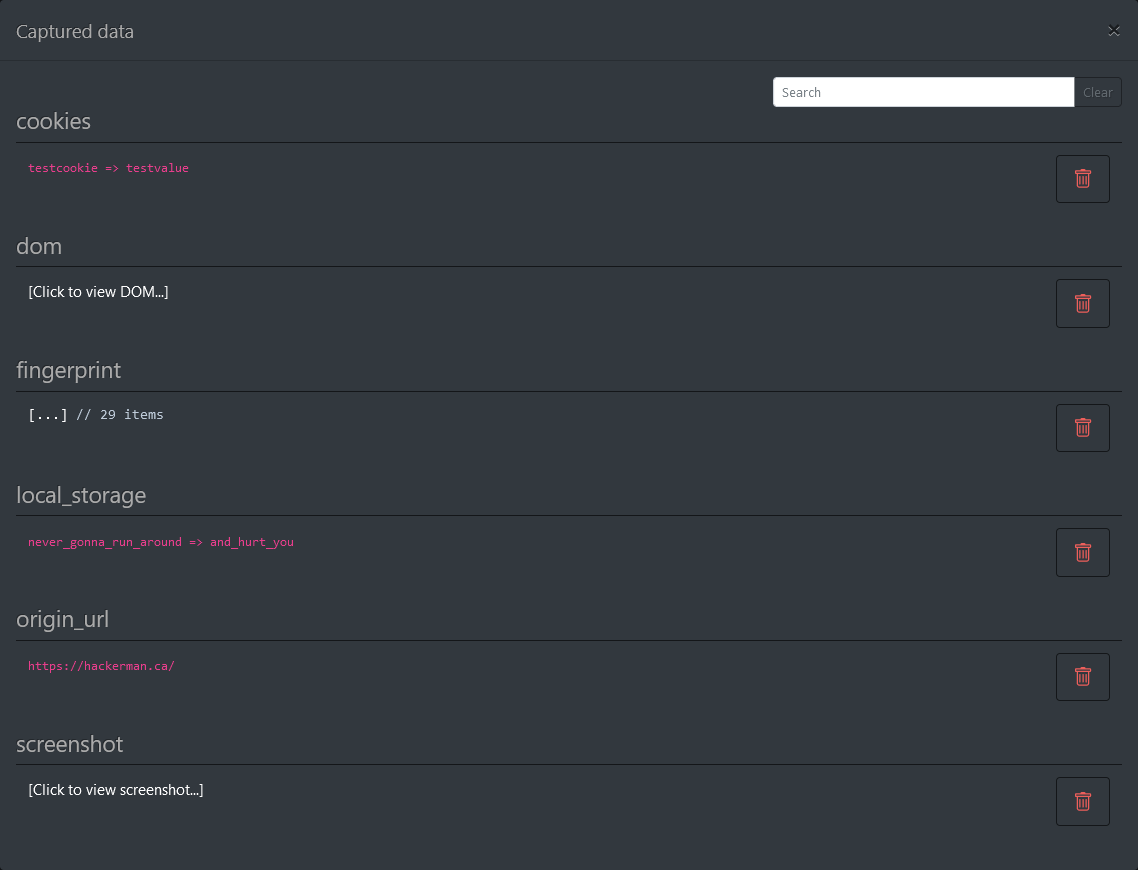
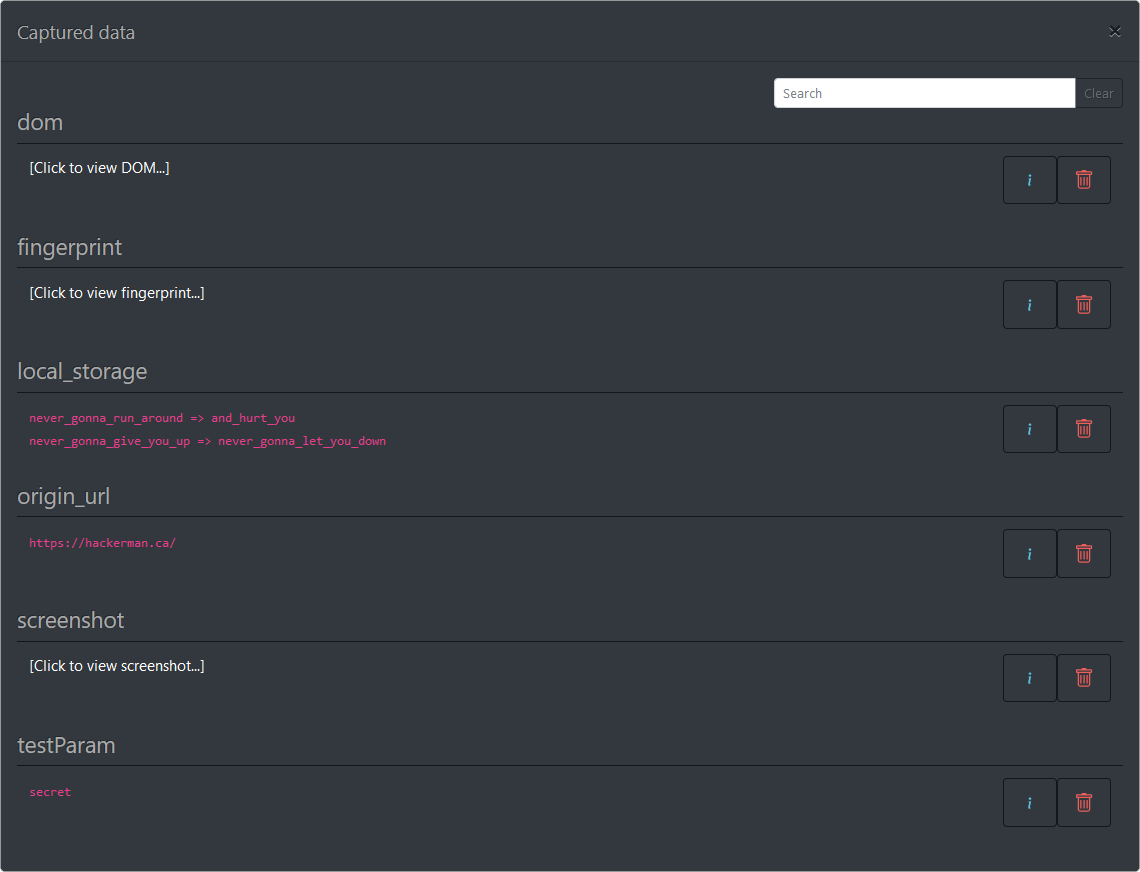
bug fix and details button

diff --git a/client/src/components/ViewData.vue b/client/src/components/ViewData.vue
@@ -106,6 +106,16 @@
         </template>
         <template v-slot:cell(action)="row">
           <b-button
+            type="button"
+            v-b-tooltip.hover
+            title="View details"
+            variant="outline-info"
+            v-b-modal.view-details-modal
+            @click="xss_detail_id=String(Object.keys(row.item)[0])"
+          >
+            <b-icon-info style="width: 20px; height: 20px;"></b-icon-info>
+          </b-button>
+          <b-button
             v-if="owner_id === user_id || is_admin"
             v-b-tooltip.hover
             title="Delete data"
@@ -126,12 +136,15 @@
         <b-button type="reset" variant="outline-secondary">Cancel</b-button>
       </b-form>
     </b-modal>
+
+    <ViewDetails :xss_id="xss_detail_id" :client_id="client_id" />
   </b-modal>
 </template>
 
 <script>
 import axios from "axios";
 import VueJsonPretty from "vue-json-pretty";
+import ViewDetails from "./ViewDetails";
 
 axios.defaults.headers.post["Content-Type"] =
   "application/x-www-form-urlencoded";
@@ -141,14 +154,15 @@ const basePath = "/api";
 export default {
   props: ["client_id", "is_admin", "owner_id", "user_id"],
   components: {
-    VueJsonPretty
+    VueJsonPretty,
+    ViewDetails
   },
   data() {
     return {
       fields: [
         {
           key: "data",
-          class: "text-left width90"
+          class: "text-left width88"
         },
         {
           key: "action",
@@ -159,7 +173,8 @@ export default {
       to_delete: 0,
       to_delete_type: "",
       search: "",
-      componentKey: 0
+      componentKey: 0,
+      xss_detail_id: 0
     };
   },
   methods: {
@@ -236,8 +251,8 @@ export default {
 </script>
 
 <style>
-.width90 {
-  width: 90%;
+.width88 {
+  width: 88%;
 }
 .invisible {
   display: none;

diff --git a/client/src/main.js b/client/src/main.js
@@ -3,7 +3,7 @@ import 'bootstrap-vue/dist/bootstrap-vue.css'
 import Vue from 'vue'
 import App from './App'
 import router from './router'
-import { BootstrapVue, IconsPlugin, BIcon, BIconArrowRepeat, BIconChevronDoubleUp, BIconChevronDoubleDown, BIconTrash } from 'bootstrap-vue'
+import { BootstrapVue, IconsPlugin, BIcon, BIconArrowRepeat, BIconChevronDoubleUp, BIconChevronDoubleDown, BIconTrash, BIconInfo } from 'bootstrap-vue'
 import Vue2Filters from 'vue2-filters'
 import VueMoment from 'vue-moment'
 import moment from 'moment-timezone'
@@ -24,6 +24,7 @@ Vue.component('BIconArrowRepeat', BIconArrowRepeat)
 Vue.component('BIconChevronDoubleUp', BIconChevronDoubleUp)
 Vue.component('BIconChevronDoubleDown', BIconChevronDoubleDown)
 Vue.component('BIconTrash', BIconTrash)
+Vue.component('BIconInfo', BIconInfo)
 
 new Vue({
   router,

diff --git a/client/src/components/ViewDetails.vue b/client/src/components/ViewDetails.vue
@@ -128,7 +128,7 @@ import axios from "axios";
 const basePath = "/api";
 
 export default {
-  props: ["xss_id", "xss_type", "client_id"],
+  props: ["xss_id", "client_id"],
   components: {
     VueJsonPretty
   },
@@ -153,14 +153,7 @@ export default {
       return timestampLocal;
     },
     getXSS() {
-      const path =
-        basePath +
-        "/client/" +
-        this.client_id +
-        "/" +
-        this.xss_type +
-        "/" +
-        this.xss_id;
+      const path = basePath + "/client/" + this.client_id + "/" + this.xss_id;
 
       axios
         .get(path)

diff --git a/client/src/components/ViewXSS.vue b/client/src/components/ViewXSS.vue
@@ -79,7 +79,7 @@
       </b-form>
     </b-modal>
 
-    <ViewDetails :xss_id="xss_id" :xss_type="xss_type" :client_id="client_id" />
+    <ViewDetails :xss_id="xss_id" :client_id="client_id" />
   </b-modal>
 </template>
 
@@ -136,7 +136,8 @@ export default {
   },
   methods: {
     getXSSList() {
-      const path = basePath + "/client/" + this.client_id + "/" + this.xss_type;
+      const path =
+        basePath + "/client/" + this.client_id + "/" + this.xss_type + "/all";
 
       axios
         .get(path)

diff --git a/server/app/api/client.py b/server/app/api/client.py
@@ -99,7 +99,7 @@ def get_client(id):
         return jsonify({'status': 'OK'}), 200
 
 
-@bp.route('/client/<id>/<flavor>', methods=['GET'])
+@bp.route('/client/<int:id>/<flavor>/all', methods=['GET'])
 @login_required
 def get_client_xss_list(id, flavor):
 
@@ -115,20 +115,16 @@ def get_client_xss_list(id, flavor):
     return jsonify(xss_list), 200
 
 
-@bp.route('/client/<id>/<flavor>/<xss_id>', methods=['GET'])
+@bp.route('/client/<int:id>/<int:xss_id>', methods=['GET'])
 @login_required
-def get_client_xss(id, flavor, xss_id):
+def get_client_xss(id, xss_id):
 
-    if flavor != 'reflected' and flavor != 'stored':
-        return jsonify({'status': 'error', 'detail': 'Unknown XSS type'}), 400
-
-    xss = XSS.query.filter_by(client_id=id).filter_by(
-        xss_type=flavor).filter_by(id=xss_id).first_or_404()
+    xss = XSS.query.filter_by(client_id=id).filter_by(id=xss_id).first_or_404()
 
     return jsonify(xss.to_dict()), 200
 
 
-@bp.route('/client/<id>/loot', methods=['GET'])
+@bp.route('/client/<int:id>/loot', methods=['GET'])
 @login_required
 def get_client_loot(id):
 
@@ -140,7 +136,7 @@ def get_client_loot(id):
         for element in json.loads(hit.data).items():
             if element[0] not in loot.keys():
                 loot[element[0]] = []
-            elif element[0] == 'fingerprint' or element[0] == 'dom' or element[0] == 'screenshot':
+            if element[0] == 'fingerprint' or element[0] == 'dom' or element[0] == 'screenshot':
                 loot[element[0]].append({hit.id: ''})
             else:
                 loot[element[0]].append({hit.id: element[1]})

diff --git a/server/config.py b/server/config.py
@@ -12,5 +12,6 @@ class Config(object):
     SQLALCHEMY_DATABASE_URI = os.environ.get('DATABASE_URL') or 'sqlite:///' + os.path.join(basedir, 'app.db')
     SQLALCHEMY_TRACK_MODIFICATIONS = False
     SESSION_COOKIE_HTTPONLY = True
+    SESSION_COOKIE_SAMESITE = 'Lax'
     REMEMBER_COOKIE_HTTPONLY = True
     REMEMBER_COOKIE_DURATION = 3600
